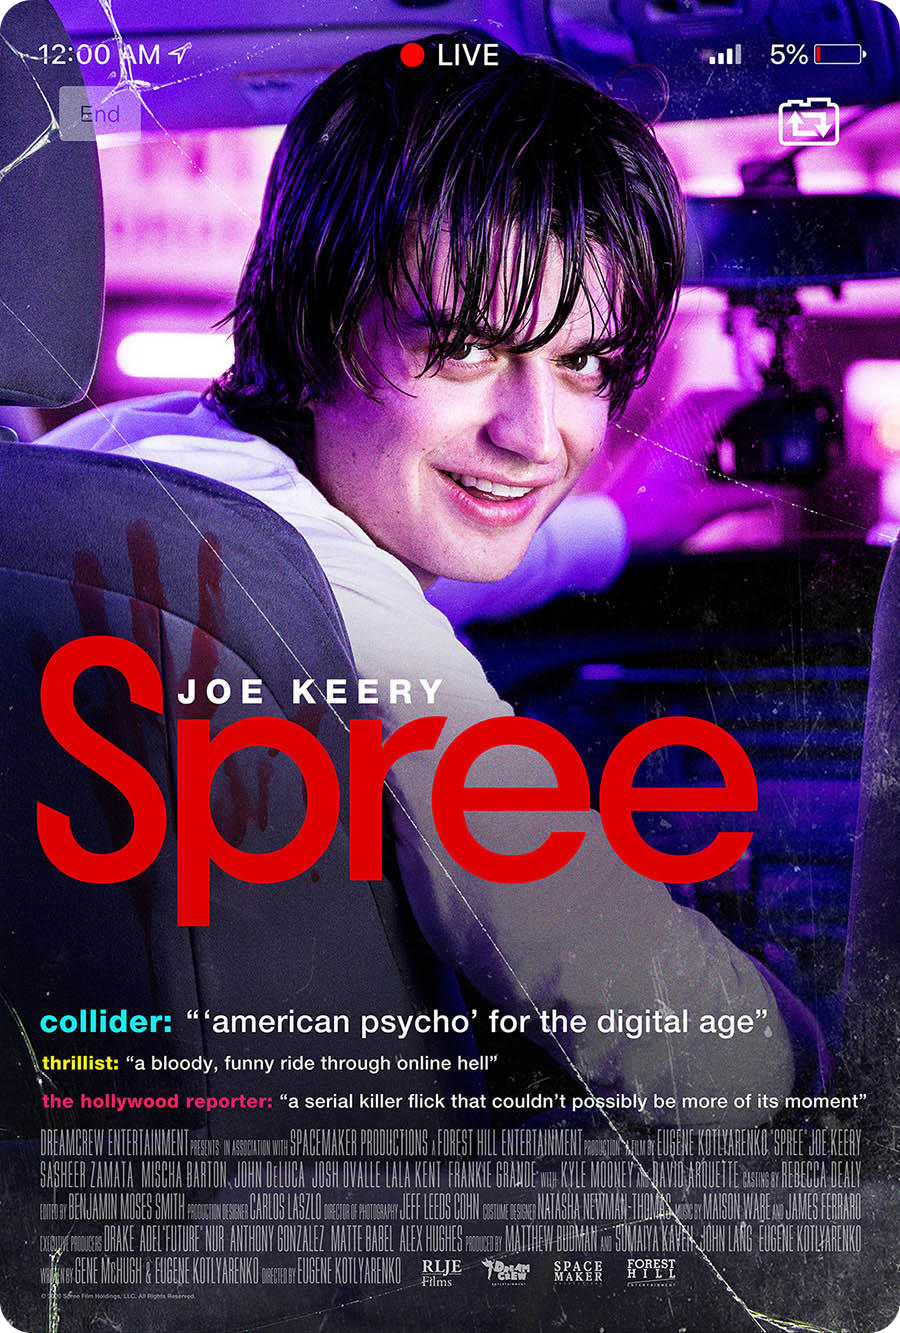
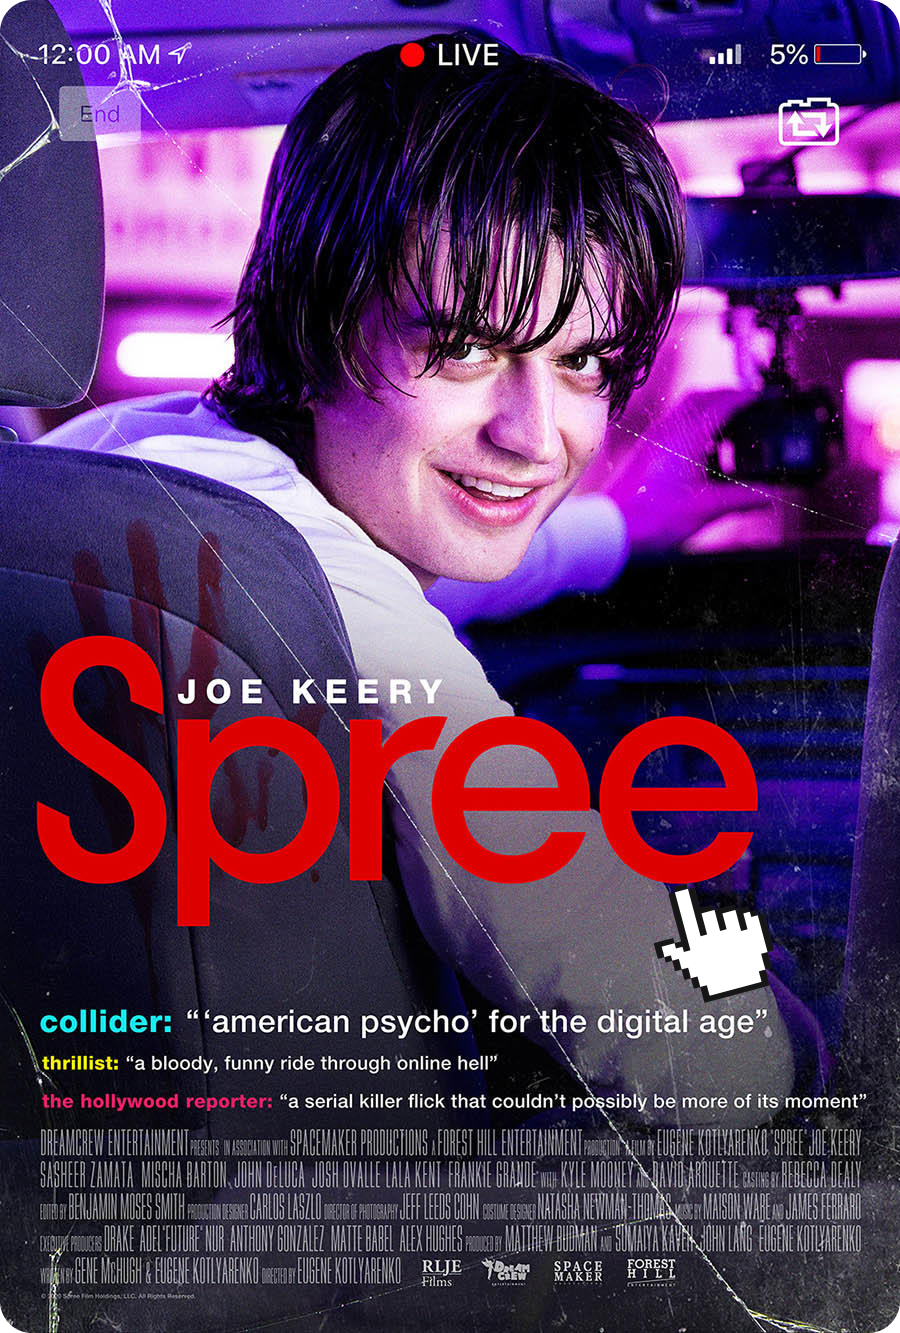
beta - preliminary
List animation function works - need to add hover

Changed region(s): [[0.7156, 0.6459, 0.8711, 0.7689]]

diff --git a/idm241/beta/index.html b/idm241/beta/index.html
@@ -10,13 +10,53 @@
 <body>
 <div class="wrapper">
 <header>
-    <h1>IDM 241 - MICRO INTERACTIONS | BETA</h1>
+    <h1>IDM 241 - MICRO INTERACTIONS | BETA DESCRIPTION</h1>
     <div class="logo_box">
         <h4> <a href="https://letterboxd.com/films/" target="_blank"> Letterboxd</a> </h4>
-        <img class="logo" src="../images/logo.png">
+        <img class="logo" src="images/logo.png">
 </div>
 </header>
-<h2>Visuals:</h2>
+    <h2>Descriptions:</h2>
+    <div class="descriptions">
+        <div class="row">
+            <h3>TRIGGERS</h3>
+            <ul>
+                <li>user hovers on film card</li>
+                <li>user hovers off film card</li>
+                <li>user hovers on eye icon</li>
+                <li>user hovers on eye icon</li>
+            </ul>
+        </div>
+        <div class="row">
+            <h3>RULES</h3>
+            <ul>
+                <li>cursor changes to pointer when mouse is hovering over the card</li>
+                <li>card transforms on the Y-axis 180 degrees</li>
+                <li>list items fade in from 0% opacity to 100% opacity</li>
+                <li>list items transform in the y direction up 50px</li>
+            </ul>
+        </div>
+        <div class="row">
+            <h3>FEEDBACK</h3>
+            <ul>
+                <li>cursor changes to pointer when mouse is hovering over the card</li>
+                <li>card transforms on the Y-axis 180 degrees</li>
+                <li>list items fade in from 0% opacity to 100% opacity</li>
+                <li>list items transform in the y direction up 50px</li>
+            </ul>
+        </div>
+        <div class="row">
+            <h3>LOOPS & MODES</h3>
+            <ul>
+                <li> When the user is hovering over the card, the card flips over and 
+                    reveals more menu information on how the image can be interacted with, such as 
+                    writing a review, favoriting, and adding to a list. It also reveals statistics from other users from a database. When the user hovers off, the card flips back to the film poster and the user's choices are recorded in a database </li>
+            </ul>
+        </div>
+    </div>
+
+ <h2>Visuals:</h2>
+ <h4 class="subheading">HOVER ON CARD</h4>
     <div class="images">
         <img class="image" src="images/beta-0.png">    
         <img class="image" src="images/beta-1.png">
@@ -24,45 +64,11 @@
         <img class="image" src="images/beta-3.png">
         <img class="image" src="images/beta-4.png">
     </div>
-    <h2>Descriptions:</h2>
-    <div class="descriptions">
-        <div class="row">
-            <h3>TRIGGERS</h3>
-            <ul>
-                <li>when the user hovers on film card</li>
-            </ul>
-        </div>
-        <div class="row">
-            <h3>RULES</h3>
-            <ul>
-                <li>cursor changes to pointer when mouse is hovering over the card</li>
-                <li>card transforms on the Y-axis 180 degrees to show a grey backside with more menu options such as liking the film, favoriting, and adding to a list.</li>
-                <li>cursor changes from pointer to normal while hovering off</li>
-                <li>card transforms on the Y-axis 180 degrees again when the user hovers off</li>
-                <li>2px solid border appears around the card and disappears when hovered off</li>
-            </ul>
-        </div>
-        <div class="row">
-            <h3>FEEDBACK</h3>
-            <ul>
-                <li>cursor changes to pointer when mouse is hovering over the card</li>
-                <li>card transforms on the Y-axis 180 degrees to show a grey backside with more menu options such as liking the film, favoriting, and adding to a list.</li>
-                <li>cursor changes from pointer to normal while hovering off</li>
-                <li>card transforms on the Y-axis 180 degrees again when the user hovers off</li>
-                <li>2px solid border appears around the card and disappears when hovered off</li>
-            </ul>
-        </div>
-        <div class="row">
-            <h3>LOOPS & MODES</h3>
-            <ul>
-                <li>there are no loops present</li>
-                <li>
-                    When the user is hovering over the image, the card flips over and 
-                    reveals more menu information on how the image can be interacted with, such as 
-                    liking the film, favoriting, and adding to a list. When the user hovers off, the card flips back to the film poster. 
-                </li>
-            </ul>
-        </div>
+
+<h4 class="subheading">HOVER OVER EYE ICON</h4>
+    <div class="images">
+        <img class="image" src="images/beta-4-5.png">
+        <img class="image" src="images/beta-5.png">
     </div>
     <p class="credits">All images and icons credited to <a href="https://letterboxd.com/films/">Letterboxd</a></p>
 </div>

diff --git a/idm241/beta/build/index.html b/idm241/beta/build/index.html
@@ -1,0 +1,86 @@
+<!DOCTYPE html>
+<html lang="en">
+<head>
+    <meta charset="UTF-8">
+    <meta http-equiv="X-UA-Compatible" content="IE=edge">
+    <meta name="viewport" content="width=device-width, initial-scale=1.0">
+    <title>Letterboxd Microinteraction Redesign</title>
+    <link rel="stylesheet" href="style.css">
+</head>
+<body>
+<div class="wrapper">
+<header>
+    <h1> IDM 241 - MICRO INTERACTIONS | ALPHA </h1>
+    <div class="logo_box">
+        <h4> <a href="https://letterboxd.com/films/" target="_blank">Letterboxd</a> </h4>
+        <img class="logo" src="../images/logo.png">
+</div>
+</header>
+<div id="microinteraction">
+    <div class="card">
+        <div class="content">
+            <div class="front">
+            <img class="card-img" src="../images/spree.png">
+            </div>
+            <div class="back">
+                <div class="list">
+                    <ul class="stats_list">
+                        <li class="list-item"> <img class="list-icon" src="../images/eye-list.png" alt="">167k views</li>
+                        <li class="list-item"> <img class="list-icon" src="../images/list-list.png" alt="">201k views</li>
+                        <li class="list-item"> <img class="list-icon" src="../images/heart-list.png" alt="">448k views</li>
+                    </ul>
+                </div>
+                <div class="rating">
+                    <img src="../images/rating-system.png" alt="rating">
+                </div>
+                <div class="actions">
+                    <img class="icon" src="../images/review-icon.png" alt="write a review">
+                    <img class="icon blue" src="../images/eye-icon.svg" alt="add to lists">
+                    <img class="icon" src="../images/list-icon.png" alt="add to lists">
+                </div>
+            </div>
+        </div>
+        </div>
+</div>
+<h2>Descriptions:</h2>
+<div class="descriptions">
+    <div class="row">
+        <h3>TRIGGERS</h3>
+        <ul>
+            <li>user hovers on film card</li>
+            <li>user hovers off film card</li>
+            <li>user hovers on eye icon</li>
+            <li>user hovers off eye icon</li>
+        </ul>
+    </div>
+    <div class="row">
+        <h3>RULES</h3>
+        <ul>
+            <li>cursor changes to pointer when mouse is hovering over the card</li>
+            <li>card transforms on the Y-axis 180 degrees</li>
+            <li>list items fade in from 0% opacity to 100% opacity</li>
+            <li>list items transform in the y direction up 50px</li>
+        </ul>
+    </div>
+    <div class="row">
+        <h3>FEEDBACK</h3>
+        <ul>
+            <li>cursor changes to pointer when mouse is hovering over the card</li>
+            <li>card transforms on the Y-axis 180 degrees</li>
+            <li>list items fade in from 0% opacity to 100% opacity</li>
+            <li>list items transform in the y direction up 50px</li>
+        </ul>
+    </div>
+    <div class="row">
+        <h3>LOOPS & MODES</h3>
+        <ul>
+            <li> When the user is hovering over the card, the card flips over and 
+                reveals more menu information on how the image can be interacted with, such as 
+                writing a review, favoriting, and adding to a list. It also reveals statistics from other users from a database. When the user hovers off, the card flips back to the film poster and the user's choices are recorded in a database </li>
+        </ul>
+    </div>
+</div>
+    <p class="credits">All images and icons credited to <a href="https://letterboxd.com/films/">Letterboxd</a></p>
+</div>
+</body>
+</html>

diff --git a/idm241/beta/build/style.css b/idm241/beta/build/style.css
@@ -26,7 +26,7 @@ h1{
 h2 {
     padding-left: 2rem;
     margin-bottom: 0rem;
-    text-align: left;
+    text-align: center;
 }
 
 h3 {
@@ -40,11 +40,6 @@ h4 {
 
 p {
     text-align: center;
-}
-
-.subheading {
-    text-align: center;
-    
 }
 
 .logo_box {
@@ -94,6 +89,7 @@ ul {
     margin: 0 auto;
 }
 .card {
+    border-radius: 12px;
     padding-top: 1.5rem;
     background-color: transparent;
     width: 200px;
@@ -116,8 +112,6 @@ ul {
 }
 
 .card-img:hover {
-    border: 2px solid #00DD5F;
-    border-radius: 12px;
     cursor:pointer;
 }
    
@@ -127,22 +121,119 @@ ul {
     height: 100%;
     -webkit-backface-visibility: hidden;
     backface-visibility: hidden;
+    border-radius: 12px;
 }
 
 .back {
     transform: rotateY(180deg);
+    background-color: #14181B
 }
 
-.images {
+.stats_list {
+    display: flex;
+    flex-direction: column;
+    /* justify-content: center;
+    align-items: center; */
+    padding-left: 0rem;
+    margin: 2rem 1rem 2rem 1rem;
+    text-align: left;
+
+}
+
+.list-item {
     display: flex;
     flex-direction: row;
-    flex-wrap: wrap;
-    justify-content: space-evenly;
+    width: 100%;
+    margin: 0rem auto;
+    list-style-type: none;
+    align-items: center;
+    padding: .4rem 0rem;
+    
 }
 
-.image {
-    padding-top: 1rem;
+.list-icon {
+    width: 1.5rem;
+    padding-right: .5rem;
+    align-items: center;
+    margin-left: 1.75rem;
 }
+
+
+.icon {
+    width: 2rem;
+    padding: 0rem .4rem; 
+}
+
+.rating {
+    margin: 1rem 1rem;
+}
+
+.blue:hover {
+    background-image: url('..images/eye_icon-hover.svg')
+}
+
+svg {
+    margin-top: 0rem;
+}
+
+img {
+    max-width: 100%;
+}
+
+/* animations */
+
+li {
+    opacity: 0;
+    -webkit-animation: fadeIn 0.9s 1;
+    animation: fadeIn 0.9s 1;
+    -webkit-animation-fill-mode: forwards;
+    animation-fill-mode: forwards;
+  }
+  
+  li:nth-child(5n+1) {
+    -webkit-animation-delay: 0.5s;
+    animation-delay: 0.5s;
+  }
+  
+  li:nth-child(5n+2) {
+    -webkit-animation-delay: 1.0s;
+    animation-delay: 1.0s;
+  }
+  
+  li:nth-child(5n+3) {
+    -webkit-animation-delay: 1.5s;
+    animation-delay: 1.5s;
+  }
+  
+  /* Animation steps */
+  
+  @-webkit-keyframes fadeIn {
+    0% {
+      opacity: 0.0;
+      transform: translateY(0);
+    }
+    100% {
+      opacity: 1.0;
+      transform: translateY(1);
+    }
+  }
+  
+  @keyframes fadeIn {
+    0% {
+      opacity: 0.0;
+      transform: translateY(1rem);
+    }
+    100% {
+      opacity: 1.0;
+      transform: translateY(0);
+    }
+} 
+  
+  
+
+
+
+
 
 @media only screen and (max-width: 768px) {
     .descriptions {

diff --git a/idm241/alpha/build/index.html b/idm241/alpha/build/index.html
@@ -12,7 +12,7 @@
 <header>
     <h1>IDM 241 - MICRO INTERACTIONS | ALPHA</h1>
     <div class="logo_box">
-        <h4> <a href="https://letterboxd.com/films/" target="_blank"> Letterboxd</a> </h4>
+        <h4> <a href="https://letterboxd.com/films/" target="_blank">Letterboxd</a> </h4>
         <img class="logo" src="../images/logo.png">
 </div>
 </header>
@@ -35,6 +35,7 @@
             <ul>
                 <li>user hovers on the film card</li>
                 <li>user hovers off the film card</li>
+
             </ul>
         </div>
         <div class="row">
